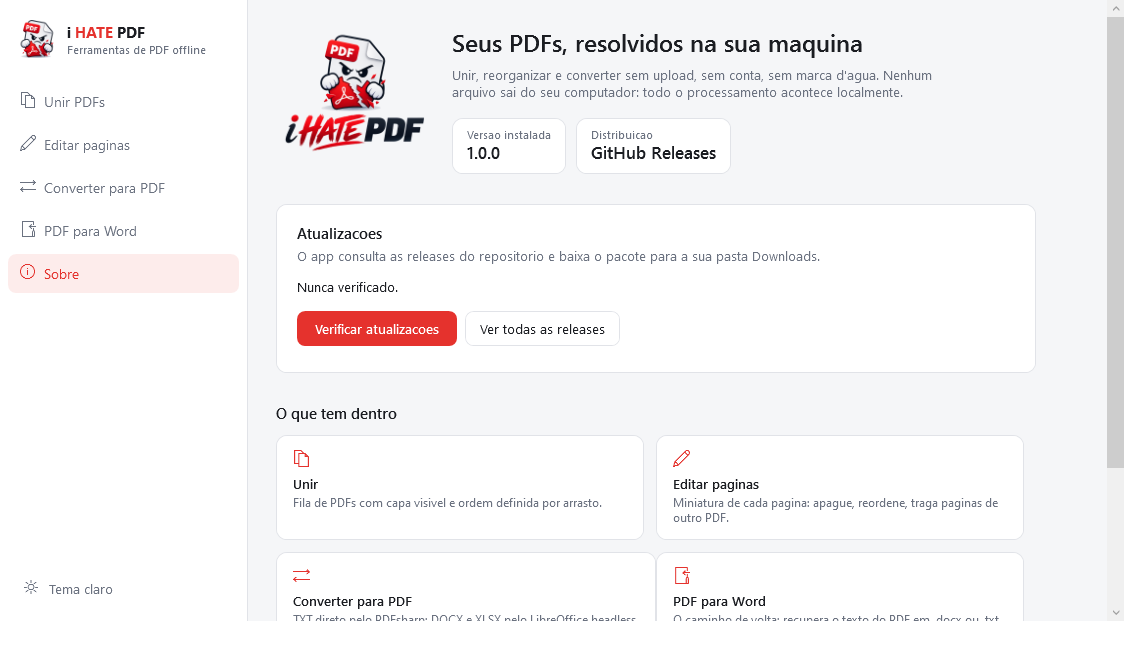
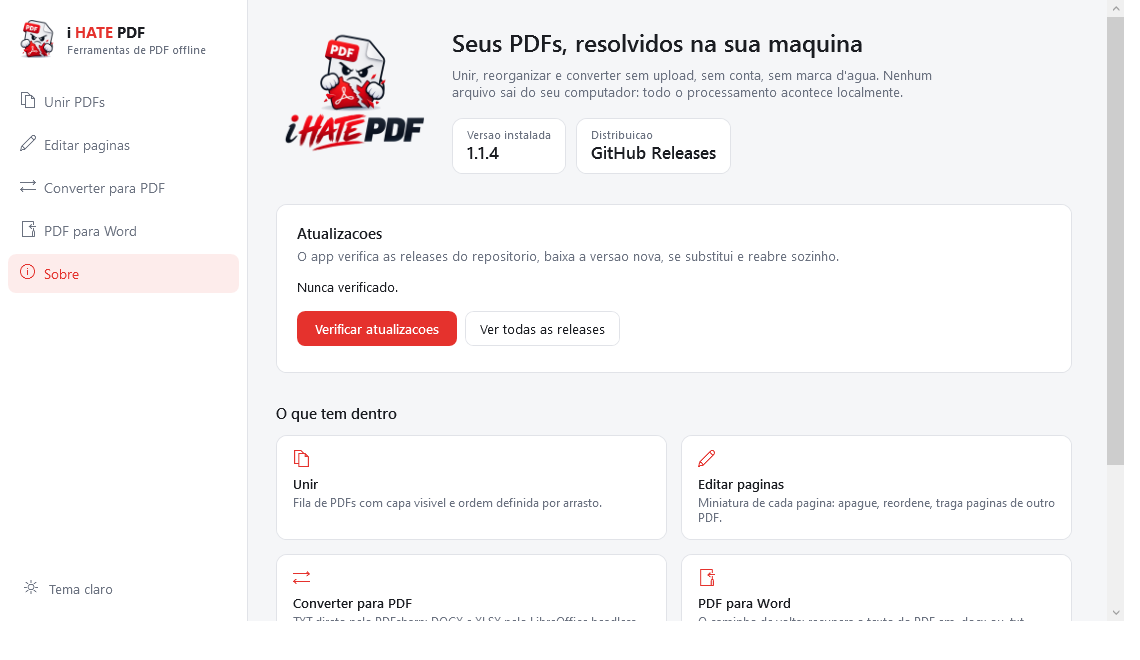
fix: cards da secao "O que tem dentro" encostando
O terceiro card ficou sem margem a direita e colava no vizinho. Agora
todos usam o mesmo gutter e o container compensa a margem extra da
coluna direita com margem negativa, mantendo o bloco alinhado com o
resto da pagina.

diff --git a/Views/AboutView.xaml b/Views/AboutView.xaml
@@ -116,8 +116,8 @@
                            FontWeight="SemiBold"
                            Foreground="{DynamicResource TextPrimaryBrush}" />
 
-                <UniformGrid Columns="2" Margin="0,12,0,0">
-                    <Border Style="{StaticResource Card}" Margin="0,0,12,12" Padding="16,14">
+                <UniformGrid Columns="2" Margin="0,12,-14,0">
+                    <Border Style="{StaticResource Card}" Margin="0,0,14,14" Padding="16,14">
                         <StackPanel>
                             <TextBlock Text="&#xE8C8;" Style="{StaticResource GlyphText}"
                                        FontSize="17" Foreground="{DynamicResource AccentBrush}" />
@@ -128,7 +128,7 @@
                         </StackPanel>
                     </Border>
 
-                    <Border Style="{StaticResource Card}" Margin="0,0,12,12" Padding="16,14">
+                    <Border Style="{StaticResource Card}" Margin="0,0,14,14" Padding="16,14">
                         <StackPanel>
                             <TextBlock Text="&#xE70F;" Style="{StaticResource GlyphText}"
                                        FontSize="17" Foreground="{DynamicResource AccentBrush}" />
@@ -139,7 +139,7 @@
                         </StackPanel>
                     </Border>
 
-                    <Border Style="{StaticResource Card}" Margin="0,0,0,12" Padding="16,14">
+                    <Border Style="{StaticResource Card}" Margin="0,0,14,14" Padding="16,14">
                         <StackPanel>
                             <TextBlock Text="&#xE8AB;" Style="{StaticResource GlyphText}"
                                        FontSize="17" Foreground="{DynamicResource AccentBrush}" />
@@ -150,7 +150,7 @@
                         </StackPanel>
                     </Border>
 
-                    <Border Style="{StaticResource Card}" Margin="0,0,12,12" Padding="16,14">
+                    <Border Style="{StaticResource Card}" Margin="0,0,14,14" Padding="16,14">
                         <StackPanel>
                             <TextBlock Text="&#xE8DE;" Style="{StaticResource GlyphText}"
                                        FontSize="17" Foreground="{DynamicResource AccentBrush}" />
